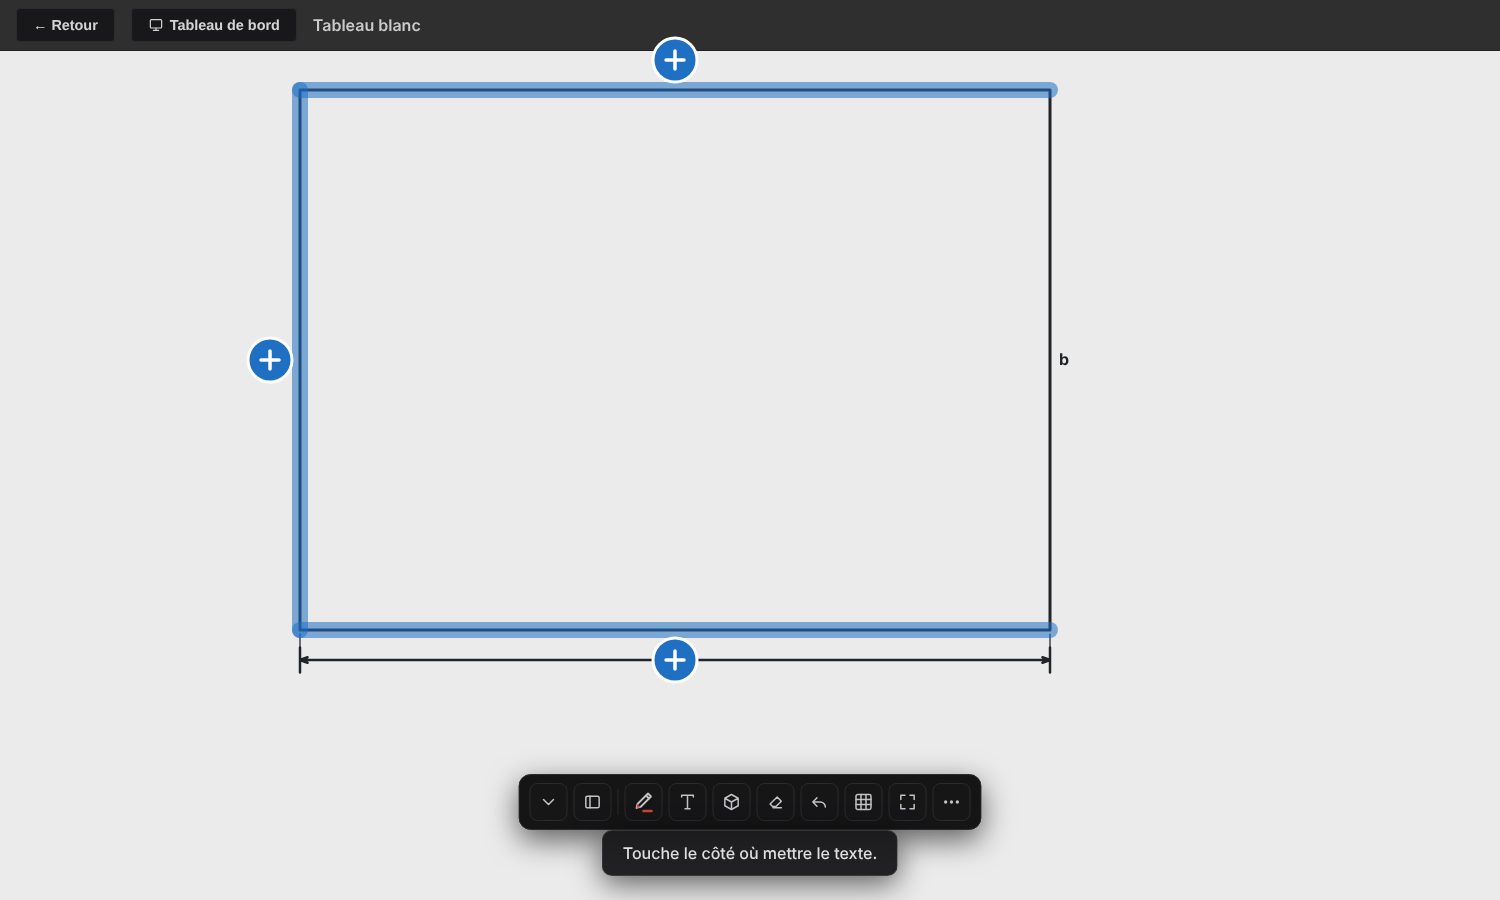
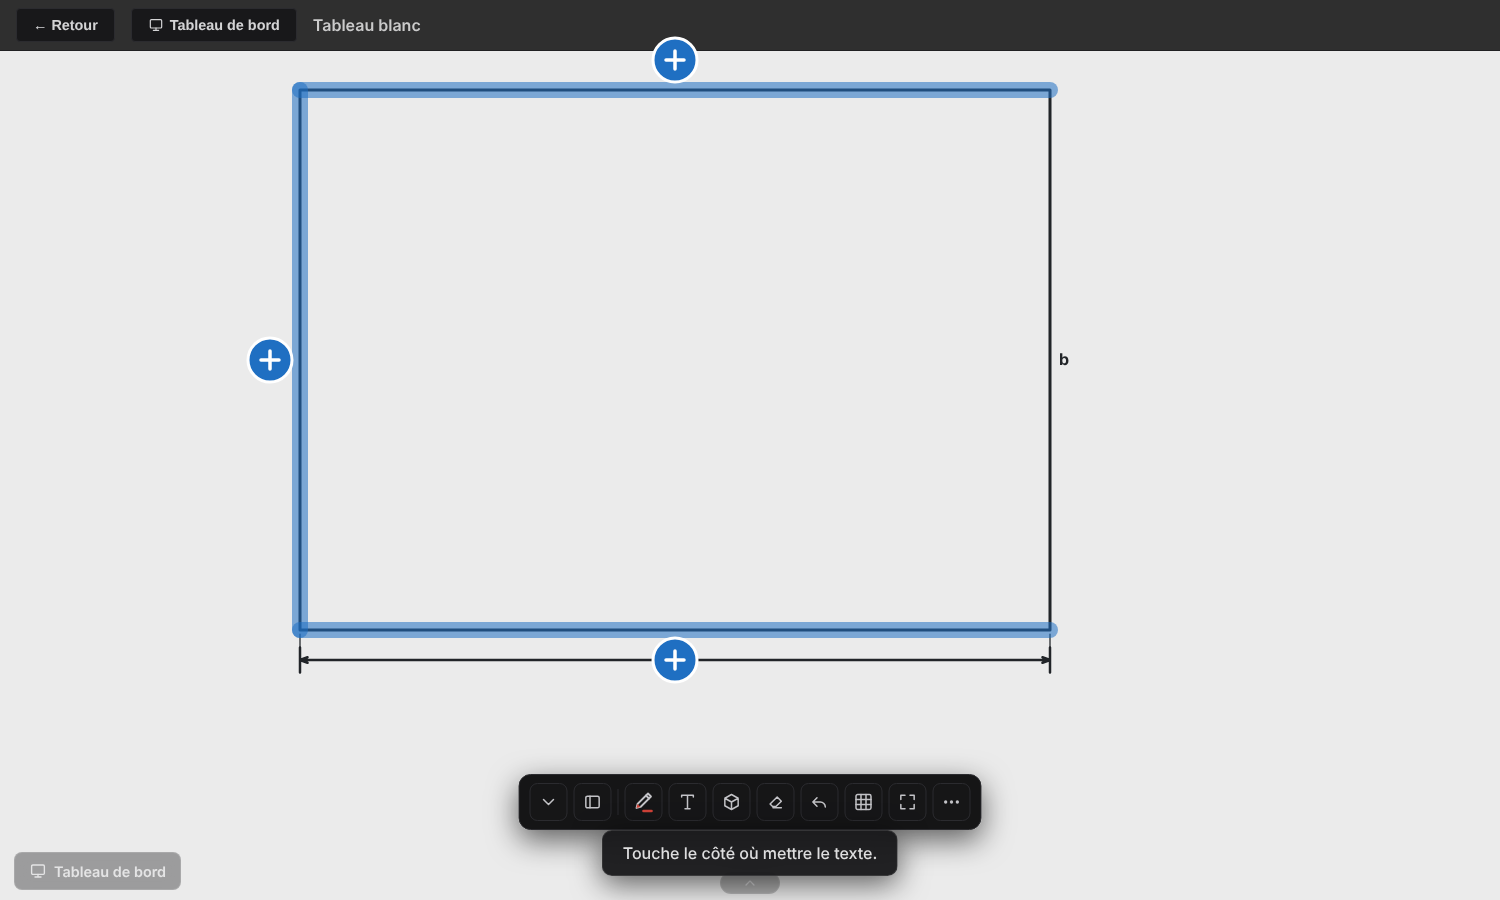
Objets iso : texte et cote placés hors de l'objet
Claude-Session: https://claude.ai/code/session_0132P7fSy2K8VC3HWdnHumMj

Changed region(s): [[0.0, 0.9333, 0.1227, 0.9956], [0.46, 0.9644, 0.5213, 0.9956]]

diff --git a/index.html b/index.html
@@ -2559,7 +2559,7 @@ function dessinerForme(g, s, x1, y1, x2, y2, k, col){
   else if (t === "cote"){
     { const an0 = Math.atan2(y2 - y1, x2 - x1), off = (s.d || 0) * (g.canvas ? g.canvas.height : 0), DC = dirCote(s, an0), ox = DC[0] * off, oy = DC[1] * off;
       if (s.txt){ const tz = s.tz || 1; g.save(); g.fillStyle = col; g.font = "700 " + Math.round(16 * k * tz) + "px system-ui, sans-serif"; g.textAlign = "center"; g.textBaseline = "middle";   /* texte sur un côté (sans ligne de cote) */
-        const tx = s.lb || "?", tw = g.measureText(tx).width, th = 16 * k * tz, sg = Math.sign(off) || 1, ux = -Math.sin(an0) * sg, uy = Math.cos(an0) * sg, ext = Math.abs(ux) * tw / 2 + Math.abs(uy) * th / 2;   /* le texte ne touche jamais le côté */
+        const tx = s.lb || "?", tw = g.measureText(tx).width, th = 16 * k * tz, sg = Math.sign(off) || 1, ux = DC[0] * sg, uy = DC[1] * sg, ext = Math.abs(ux) * tw / 2 + Math.abs(uy) * th / 2;   /* le texte ne touche jamais le côté */
         g.fillText(tx, (x1 + x2) / 2 + ux * (Math.abs(off) + ext), (y1 + y2) / 2 + uy * (Math.abs(off) + ext)); g.restore(); return; }
       if (Math.abs(off) > 2){ const sg = Math.sign(off), ux = DC[0] * sg, uy = DC[1] * sg, gap = 4 * k, dep = 8 * k;   /* lignes de rappel */
         g.save(); g.lineWidth = Math.max(1, lw * .5); g.beginPath();
@@ -2839,7 +2839,9 @@ function ajouterCote(s, txt, choixIdx){
   const libre = tous[choixIdx];
   const S = sommetsForme(f), Cx = S.P.reduce((t, q) => t + q[0], 0) / S.P.length * W, Cy = S.P.reduce((t, q) => t + q[1], 0) / S.P.length * H;
   const [u, v] = libre, an = Math.atan2((v[1] - u[1]) * H, (v[0] - u[0]) * W), nx = -Math.sin(an), ny = Math.cos(an), mx = (u[0] + v[0]) / 2 * W, my = (u[1] + v[1]) / 2 * H;
-  const sg = S.ferme ? (Math.sign(nx * (mx - Cx) + ny * (my - Cy)) || 1) : (ny > 0 ? -1 : 1), ec = 30 * RD.z * (window.devicePixelRatio || 1);
+  const iso = RD.wb && /^iso/.test(wbBg()), [dx0, dy0] = iso ? dirCote({ iso:1 }, an) : [nx, ny];
+  let sg = S.ferme ? (Math.sign(dx0 * (mx - Cx) + dy0 * (my - Cy)) || 1) : (ny > 0 ? -1 : 1), ec = 30 * RD.z * (window.devicePixelRatio || 1);
+  if (f.t === "objet"){ const B = objGeo(f, W, H).bbox, bx = (B[0] + B[2]) / 2, by = (B[1] + B[3]) / 2; sg = Math.sign(dx0 * (mx - bx) + dy0 * (my - by)) || 1; }   /* objet : du côté opposé au corps de l'objet, pour ne pas le cacher */
   snapInk(); const n = { t:"cote", c:f.c && !/^tuy|^maison/.test(f.t) ? f.c : "#24282c", hl:false, hc:null, w:2.5, p:[u.slice(), v.slice()], d:sg * (txt ? ec * .3 : ec) / H };
   if (RD.wb && /^iso/.test(wbBg())) n.iso = 1;   /* plan iso : lignes de rappel sur les axes de la grille */
   if (txt){ n.txt = 1; n.lb = "abcdefgh"[arcs(f).findIndex(([a2, b2]) => pres(a2, u) && pres(b2, v))] || "a"; }

diff --git a/CLAUDE.md b/CLAUDE.md
@@ -73,7 +73,7 @@
 - **Sélection multiple** (`window.SELM`) : IIFE en capture avant les autres gestionnaires du canevas, active seulement sans outil (`!RD.formeK && !RD.objK`) — Ctrl/Maj+clic bascule un élément, glisser dans le vide = cadre (`boiteDe`), glisser un membre = déplacer le groupe; dans `redrawInk` : traits surlignés en bleu, cadre pointillé pour objets et formes fermées, un seul cadre autour du groupe; tout clic hors du groupe (même avec un outil) vide `SELM`, et le groupe se glisse même avec un outil actif; `recolorerSel` et `effacerChoix` traitent `SELM`; `copierColler('c'|'v'|'x'|'d')` (`window.PRESSE`, décalage de 2 cases ou d'un pas iso). Ctrl/Maj + glisser = cadre style Windows partout sur le tableau blanc, même avec un outil (z-index 100000, sinon caché sous le lecteur); un objet passe avant un trait au toucher (`objetSous` avant `formeSous`); avec l'outil Fil, un simple clic sur un symbole le choisit (`mv.surObjet`). Ctrl + vignette = `window.remplacerObjet(o, k)` (même famille); Ctrl + forme = change `s.t` en gardant la boîte.
 - **Plomberie en coupe** : formes `FORMES[k].pl` (onglet `plomb` de la palette, `.grp[data-g="plomb"]`; `ongletPour` → « plomb ») : `maison`, tuyaux `tuyEF/EC/DR/EV/GZ` (couleurs `COUL_TUY`, traités comme des lignes : regex `tuy[A-Z]+`), appareils `pl*`; dessin `dessinerPlomb` (→ `dessinerPlomb0` + `dessinerPorts` quand l'onglet Plomberie est ouvert), maison `dessinerMaison`/`geoMaison` (raccords aqueduc EF, égout DR, évent EV); raccords des appareils `PORTS_PL` [type, fx, fy] et `portsPlomb`, `portCompat`; un clic dans une maison pose l'appareil à l'échelle (`DIM_PL` en m, 2,7 m = 28 % de la hauteur) sur le plancher (`SOL_PL`); un tuyau en biais vers un raccord devient deux bouts avec un coude; déplacer un appareil emmène les bouts de tuyaux branchés (`cur.liens`); taille d'un clic `FORMES_TAILLE` (centrée); `aimanterTuyau` (45° + bout ou trajet d'un autre tuyau); avec un outil tuyau, toucher le tuyau choisi ou sa poignée démarre un nouveau tuyau.
 - **Case du double-clic d'une forme** : rangée Couleur (`couleurForme`, `[data-fcol]`, change `s.c` de la forme et de toutes ses cotes / textes de côté via `groupeCotes(s)`, aussi à partir d'une cote; pas pour objets, maison, tuyaux, surligneur); le pavé de position `padCote` n'est plus offert aux formes qui acceptent « + Texte sur un côté » (`cotesPossibles`), seulement aux cotes, aux objets iso et aux autres formes; question « Nom au centre (facultatif) ».
-- **Cotes partout (28 oct.)** : `sommetsForme` accepte aussi un objet iso (côtés = d'un raccord à l'autre) et un trait iso découpé (même groupe `g` : `cheminGroupe` = coins de la partie continue). Cote posée sur fond iso : `s.iso = 1`, décalage et traits d'extrémité le long d'un axe iso (`dirCote` : vertical de préférence; la poignée divise par `dirCote(...)[2]`); longueur affichée en pas iso (34 × 1,2). Couleur (`couleurForme`) offerte aussi aux objets iso et aux symboles électriques. Les cotes suivent un objet iso déplacé (`mv.cotes`) ou mis debout.
+- **Cotes partout (28 oct.)** : `sommetsForme` accepte aussi un objet iso (côtés = d'un raccord à l'autre) et un trait iso découpé (même groupe `g` : `cheminGroupe` = coins de la partie continue). Cote posée sur fond iso : `s.iso = 1`, décalage et traits d'extrémité le long d'un axe iso (`dirCote` : vertical de préférence; la poignée divise par `dirCote(...)[2]`); longueur affichée en pas iso (34 × 1,2). Couleur (`couleurForme`) offerte aussi aux objets iso et aux symboles électriques. Les cotes suivent un objet iso déplacé (`mv.cotes`) ou mis debout. Sur un objet, `ajouterCote` place texte et cote du côté opposé au centre de son cadre (`objGeo(...).bbox`), le long de l'axe iso; le texte d'un côté iso suit aussi `dirCote`.
 - **Cotes qui suivent** : au début d'un déplacement (`cur.bouge`) ou d'une poignée, `liensCotes(f)` retient chaque cote posée sur un côté (indice du côté + sens); `suivreCotes(L, f)` la recolle au même côté à chaque mouvement.
 - **Cotes** : `placerCase` met la case du double-clic à côté de l'objet; boutons `[data-plus="txt"]` (texte seul : cote avec `s.txt = 1`, sans lignes, lettre a, b, c… par défaut, poussée hors du côté selon la largeur du texte) et `[data-plus="cote"]` → `ajouterCote(s, txt)` → `choisirCote` (SVG `.choixCote` par-dessus tout : côtés libres surlignés + gros bouton +, Échap / toucher ailleurs = annuler) → `ajouterCote(f, txt, i)` (à l'extérieur; `sommetsForme`).
 - **Crayon fluide (28 oct.)** : `#penCol` active toujours le crayon en un toucher (avant, avec un objet choisi, il ouvrait seulement les couleurs); l'objet choisi est gardé dans `RD.aRecolorer` pour `recolorerSel`, oublié au premier trait. `RD.enTrait` : `sauverTableaux` attend la fin du trait. Trait libre lissé (courbes par les milieux) dans `drawStroke` et `dessinerEnCours`; points à moins de ~1 px ignorés; `rectToile()` lit la position de la toile une fois par image.
